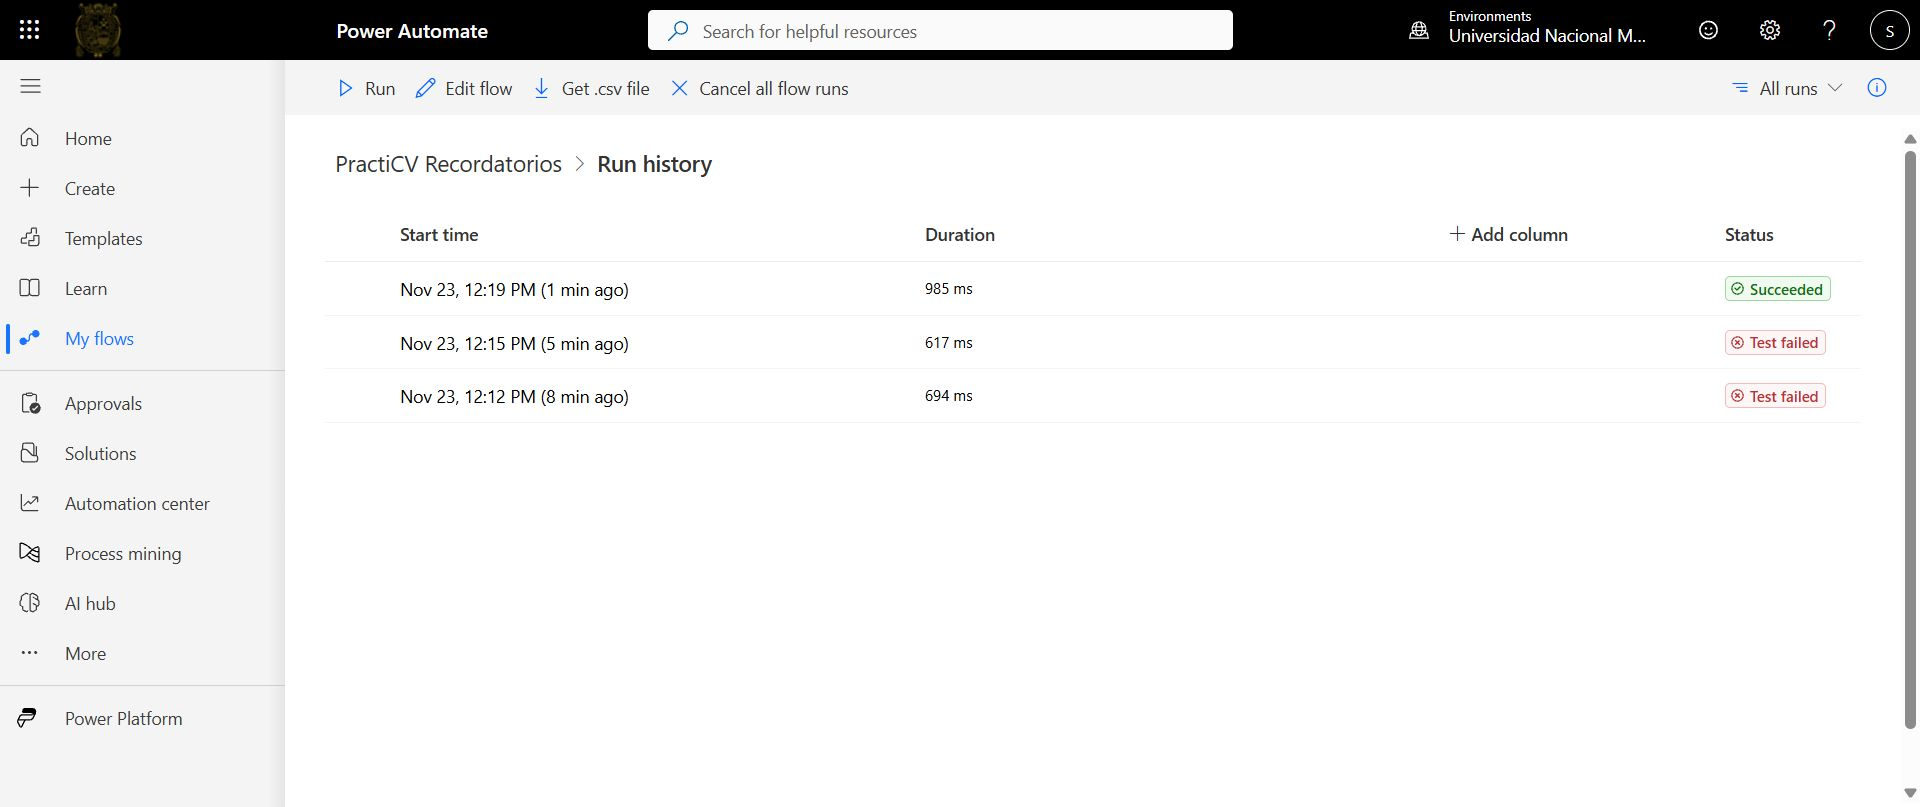
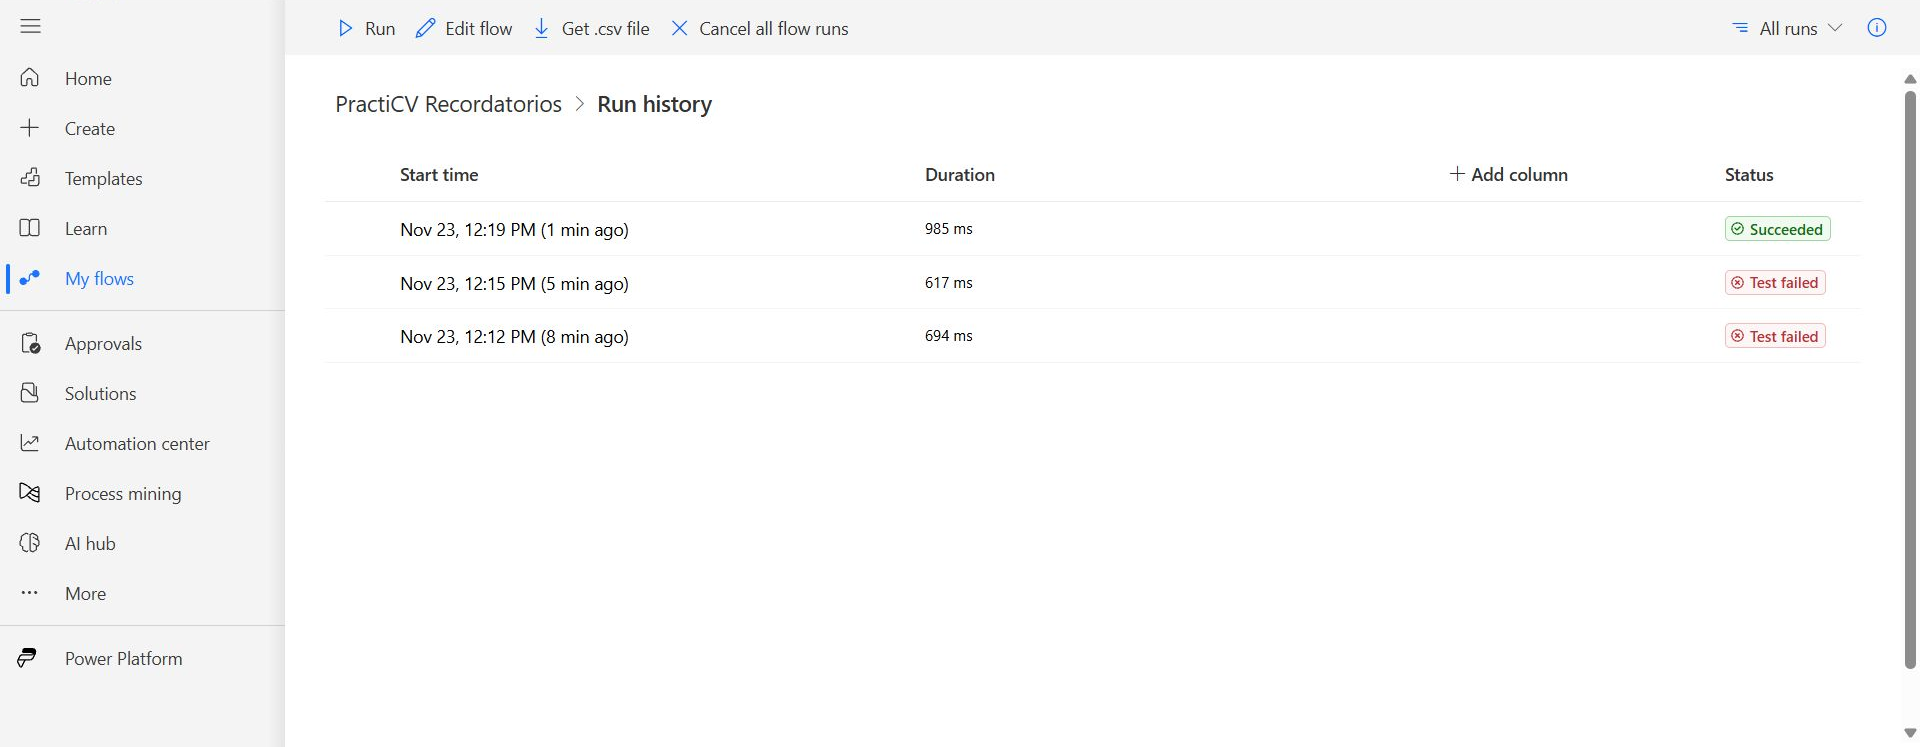
chore: sanitize public repo metadata and assets

diff --git a/backend/practicv/config.py b/backend/practicv/config.py
@@ -14,7 +14,7 @@ class Settings(BaseSettings):
     mcp_enabled: bool = True
     mcp_server_path: str | None = None
     mcp_fixture_dir: str | None = None
-    url_capture_user_agent: str = "PractiCV/0.1.0 (+https://github.com/kuki236/practicv)"
+    url_capture_user_agent: str = "PractiCV/0.2.1 (+https://github.com/tejedasebastian/practicv)"
     practilizate_enabled: bool = False
     google_client_id: str | None = None
     google_client_secret: str | None = None

diff --git a/README.en.md b/README.en.md
@@ -41,6 +41,8 @@ It is not a job board, it does not auto-apply, and it does not promise employmen
 
 ## Demo
 
+Local demo with synthetic data. **There is no public instance**: the video and screenshots were recorded on a local machine during v0.1/v0.2.
+
 [Watch a short demo video](docs/assets/demo.webm)
 
 ![Landing](docs/assets/landing.png)
@@ -142,7 +144,7 @@ Sources: MCP, text, CSV, URL    Exports: Excel, CSV, ICS
 ## Quick start
 
 ```powershell
-git clone <repository-url>
+git clone https://github.com/tejedasebastian/practicv.git
 cd practicv
 
 # Local PostgreSQL

diff --git a/README.md b/README.md
@@ -41,6 +41,8 @@ No es un job board, no postula automáticamente y no promete empleo.
 
 ## Demo
 
+Demo local con datos sintéticos. **No hay una instancia pública**: el video y las capturas se grabaron en una máquina local durante v0.1/v0.2.
+
 [Ver demo corta en video](docs/assets/demo.webm)
 
 ![Landing](docs/assets/landing.png)
@@ -142,7 +144,7 @@ Sources: MCP, texto, CSV, URL   Exports: Excel, CSV, ICS
 ## Inicio rápido
 
 ```powershell
-git clone <repository-url>
+git clone https://github.com/tejedasebastian/practicv.git
 cd practicv
 
 # PostgreSQL local
